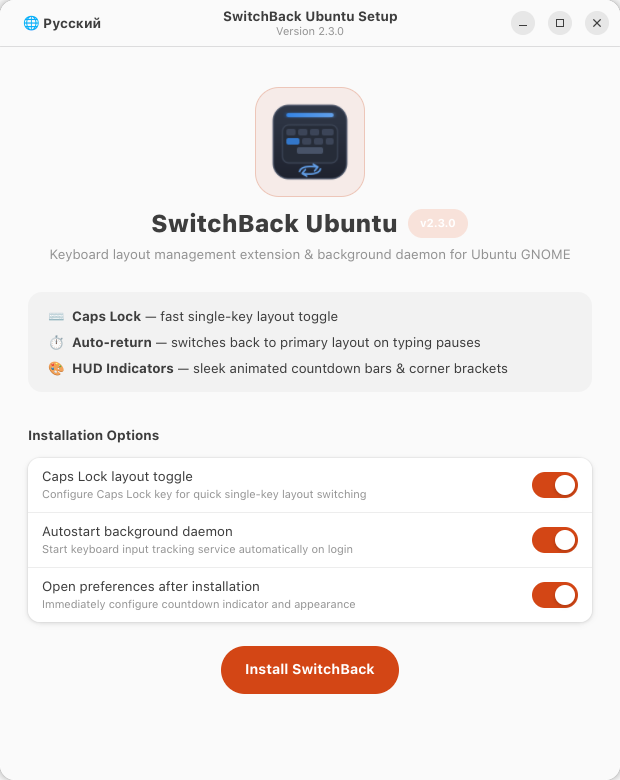
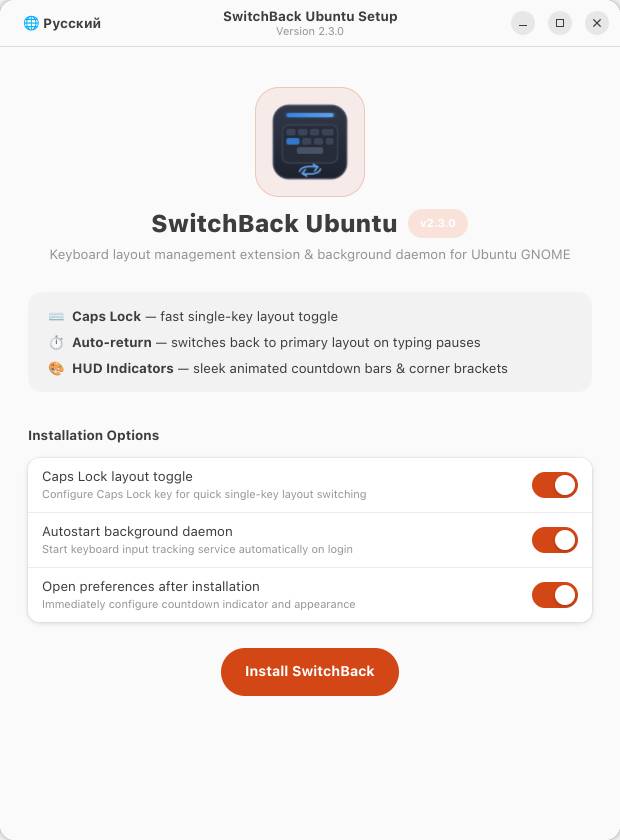
refactor(gui): unify installer actions layout with balanced pill buttons

diff --git a/README.ru.md b/README.ru.md
@@ -116,13 +116,15 @@ cd SwitchBack-Ubuntu
 ```
 
 ### Способ А: Графический установщик (Рекомендуется)
-Запустите графический установщик GTK4/Libadwaita:
+Запустите графический установщик и менеджер на GTK4/Libadwaita:
 
 ```bash
 ./install-gui
 # или: ./install.sh --gui
 ```
 *(Также можно просто дважды кликнуть по файлу `SwitchBack-Installer.desktop` в проводнике «Файлы»)*
+
+Позволяет выполнить установку, настроить автозапуск, перейти в настройки, а также в один клик безопасно переустановить или удалить SwitchBack в любой момент.
 
 <div align="center">
 

diff --git a/README.md b/README.md
@@ -115,13 +115,15 @@ cd SwitchBack-Ubuntu
 ```
 
 ### Option A: Graphical Installer (Recommended)
-Launch the modern GTK4/Libadwaita installer:
+Launch the modern GTK4/Libadwaita installer & manager:
 
 ```bash
 ./install-gui
 # or: ./install.sh --gui
 ```
 *(You can also double-click `SwitchBack-Installer.desktop` directly in Ubuntu Files / Nautilus)*
+
+Supports fresh setup, configuring startup options, opening preferences, and cleanly reinstalling or removing SwitchBack at any time.
 
 <div align="center">
 
